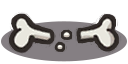
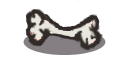
Fix textures & add fade

diff --git a/LaunchpadReloaded/Networking/GenericRpc.cs b/LaunchpadReloaded/Networking/GenericRpc.cs
@@ -1,9 +1,12 @@
-using LaunchpadReloaded.Modifiers;
+using LaunchpadReloaded.Features;
+using LaunchpadReloaded.Modifiers;
 using LaunchpadReloaded.Roles;
 using LaunchpadReloaded.Utilities;
 using MiraAPI.Utilities;
 using Reactor.Networking.Attributes;
 using Reactor.Utilities;
+using System.Collections;
+using UnityEngine;
 using Helpers = MiraAPI.Utilities.Helpers;
 
 namespace LaunchpadReloaded.Networking;
@@ -40,5 +43,53 @@ public static class GenericRpc
 
         var poison = new PoisonModifier(playerControl, time);
         victim.GetModifierComponent()!.AddModifier(poison);
+    }
+
+    public static IEnumerator FadeOutBody(DeadBody body, PlayerControl plr)
+    {
+        SpriteRenderer rend = body.gameObject.transform.FindChild("Sprite").GetComponent<SpriteRenderer>();
+        float alphaVal = rend.color.a;
+        UnityEngine.Color tmp = rend.color;
+
+        while (alphaVal > 0)
+        {
+            alphaVal -= 0.01f;
+            tmp.a = alphaVal;
+            rend.color = tmp;
+
+            yield return new WaitForSeconds(0.01f);
+        }
+
+        plr.cosmetics.CurrentPet.gameObject.SetActive(false);
+        rend.transform.parent.gameObject.SetActive(false);
+    }
+
+
+    [MethodRpc((uint)LaunchpadRpc.Dissect)]
+    public static void RpcDissect(this PlayerControl playerControl, byte bodyId)
+    {
+        if (playerControl.Data.Role is not SurgeonRole)
+        {
+            playerControl.KickForCheating();
+            return;
+        }
+
+        var body = Helpers.GetBodyById(bodyId);
+        var player = GameData.Instance.GetPlayerById(bodyId);
+        if (body != null && player != null)
+        {
+            var bone = new GameObject("Bone").AddComponent<SpriteRenderer>();
+            bone.sprite = LaunchpadAssets.Bone.LoadAsset();
+            bone.transform.localScale = new Vector3(0.6f, 0.6f, 0.6f);
+            bone.transform.localPosition = new Vector3(body.transform.localPosition.x - 0.17f, body.transform.localPosition.y - 0.17f, body.transform.localPosition.z);
+            bone.gameObject.layer = body.gameObject.layer;
+            body.Reported = true;
+            body.enabled = false;
+            Coroutines.Start(FadeOutBody(body, player.Object));
+        }
+        else
+        {
+            Logger<LaunchpadReloadedPlugin>.Warning($"Body for id {bodyId} not found");
+        }
     }
 }

diff --git a/LaunchpadReloaded/Buttons/DissectButton.cs b/LaunchpadReloaded/Buttons/DissectButton.cs
@@ -1,9 +1,11 @@
 using LaunchpadReloaded.Features;
+using LaunchpadReloaded.Networking;
+using LaunchpadReloaded.Options.Roles;
 using LaunchpadReloaded.Roles;
+using MiraAPI.GameOptions;
 using MiraAPI.Hud;
 using MiraAPI.Utilities;
 using MiraAPI.Utilities.Assets;
-using PowerTools;
 using Reactor.Utilities.Extensions;
 using UnityEngine;
 
@@ -13,9 +15,9 @@ namespace LaunchpadReloaded.Buttons;
 public class DissectButton : BaseLaunchpadButton<DeadBody>
 {
     public override string Name => "Dissect";
-    public override float Cooldown => 1;
+    public override float Cooldown => OptionGroupSingleton<SurgeonOptions>.Instance.DissectCooldown;
     public override float EffectDuration => 0;
-    public override int MaxUses => 0;
+    public override int MaxUses => (int)OptionGroupSingleton<SurgeonOptions>.Instance.DissectUses;
     public override LoadableAsset<Sprite> Sprite => LaunchpadAssets.DissectButton;
     public override bool TimerAffectedByPlayer => true;
     public override bool AffectedByHack => false;
@@ -54,11 +56,7 @@ public class DissectButton : BaseLaunchpadButton<DeadBody>
         {
             return;
         }
-        var bone = new GameObject("Bone").AddComponent<SpriteRenderer>();
-        bone.sprite = LaunchpadAssets.Bone.LoadAsset();
-        bone.transform.position = new Vector3(Target.transform.position.x, Target.transform.position.y, 0);
-        bone.transform.localScale = new Vector3(0.5f, 0.5f, 0.5f);
-        bone.gameObject.layer = Target.gameObject.layer;
-        Target.gameObject.SetActive(false);
+
+        PlayerControl.LocalPlayer.RpcDissect(Target.ParentId);
     }
 }

diff --git a/LaunchpadReloaded/Options/Roles/SurgeonOptions.cs b/LaunchpadReloaded/Options/Roles/SurgeonOptions.cs
@@ -18,6 +18,12 @@ public class SurgeonOptions : AbstractOptionGroup
     [ModdedNumberOption("Inject Uses", 0, 10, zeroInfinity: true)]
     public float InjectUses { get; set; } = 0;
 
+    [ModdedNumberOption("Dissect Cooldown", 0, 120, 5, MiraNumberSuffixes.Seconds)]
+    public float DissectCooldown { get; set; } = 35f;
+
+    [ModdedNumberOption("Dissect Uses", 0, 10, zeroInfinity: true)]
+    public float DissectUses { get; set; } = 0;
+
     [ModdedNumberOption("Poison Death Delay", 5, 60, 5, MiraNumberSuffixes.Seconds)]
     public float PoisonDelay { get; set; } = 10;
 

diff --git a/LaunchpadReloaded/Modifiers/Game/GiantModifier.cs b/LaunchpadReloaded/Modifiers/Game/GiantModifier.cs
@@ -16,7 +16,7 @@ public sealed class GiantModifier : LPModifier
     {
         if (Player != null)
         {
-            Player.MyPhysics.Speed *= 0.75f;
+            Player.MyPhysics.Speed *= 0.8f;
             Player.transform.localScale /= 0.7f;
         }
     }
@@ -25,7 +25,7 @@ public sealed class GiantModifier : LPModifier
     {
         if (Player != null)
         {
-            Player.MyPhysics.Speed /= 0.75f;
+            Player.MyPhysics.Speed /= 0.8f;
             Player.transform.localScale *= 0.7f;
         }
     }

diff --git a/LaunchpadReloaded/Options/Modifiers/GameModifierOptions.cs b/LaunchpadReloaded/Options/Modifiers/GameModifierOptions.cs
@@ -10,7 +10,7 @@ public class GameModifierOptions : AbstractOptionGroup
     public override string GroupName => "Game Modifiers";
 
     [ModdedNumberOption("Player Modifier Limit", 0f, 10, 1, suffixType: MiraNumberSuffixes.None, zeroInfinity: true)]
-    public float ModifierLimit { get; set; } = 0f;
+    public float ModifierLimit { get; set; } = 1f;
 
     [ModdedNumberOption("Giant Chance", 0f, 100f, 10f, suffixType: MiraNumberSuffixes.Percent)]
     public float GiantChance { get; set; } = 0f;

diff --git a/LaunchpadReloaded/Networking/LaunchpadRpc.cs b/LaunchpadReloaded/Networking/LaunchpadRpc.cs
@@ -10,5 +10,6 @@ public enum LaunchpadRpc : uint
     SyncAllColors,
     RemoveVote,
     PopulateResults,
-    Poison
+    Poison,
+    Dissect
 }
